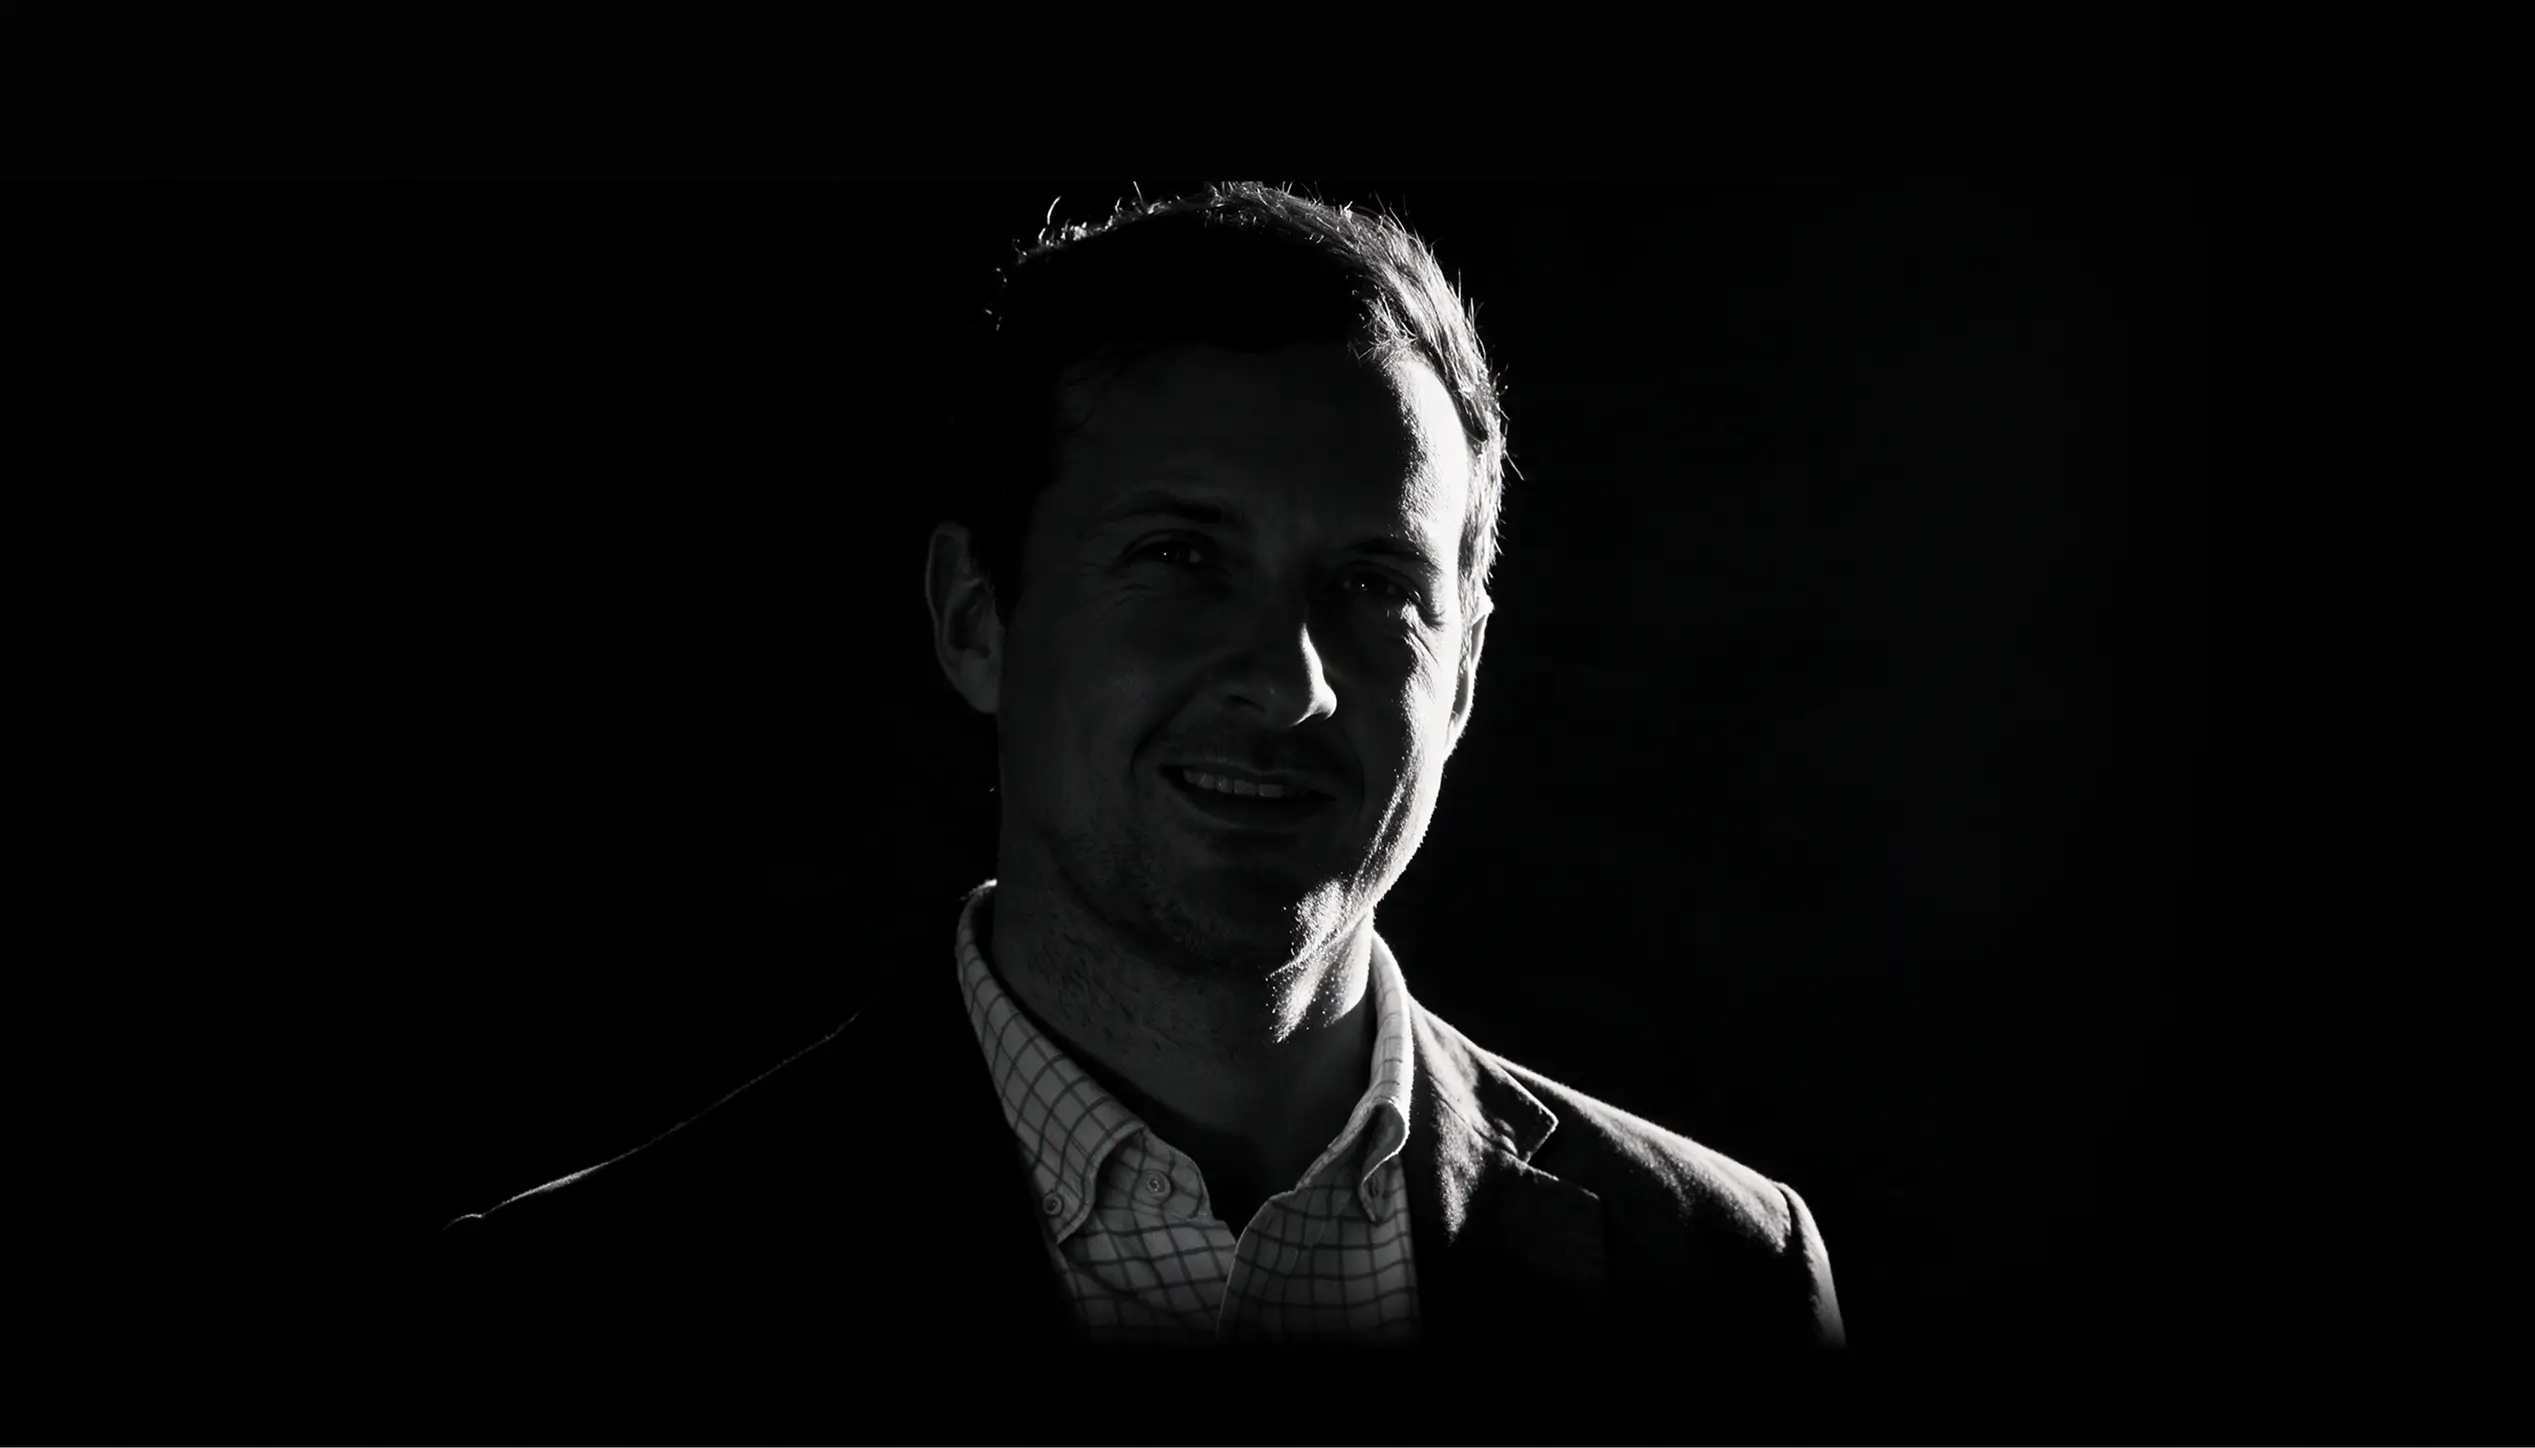
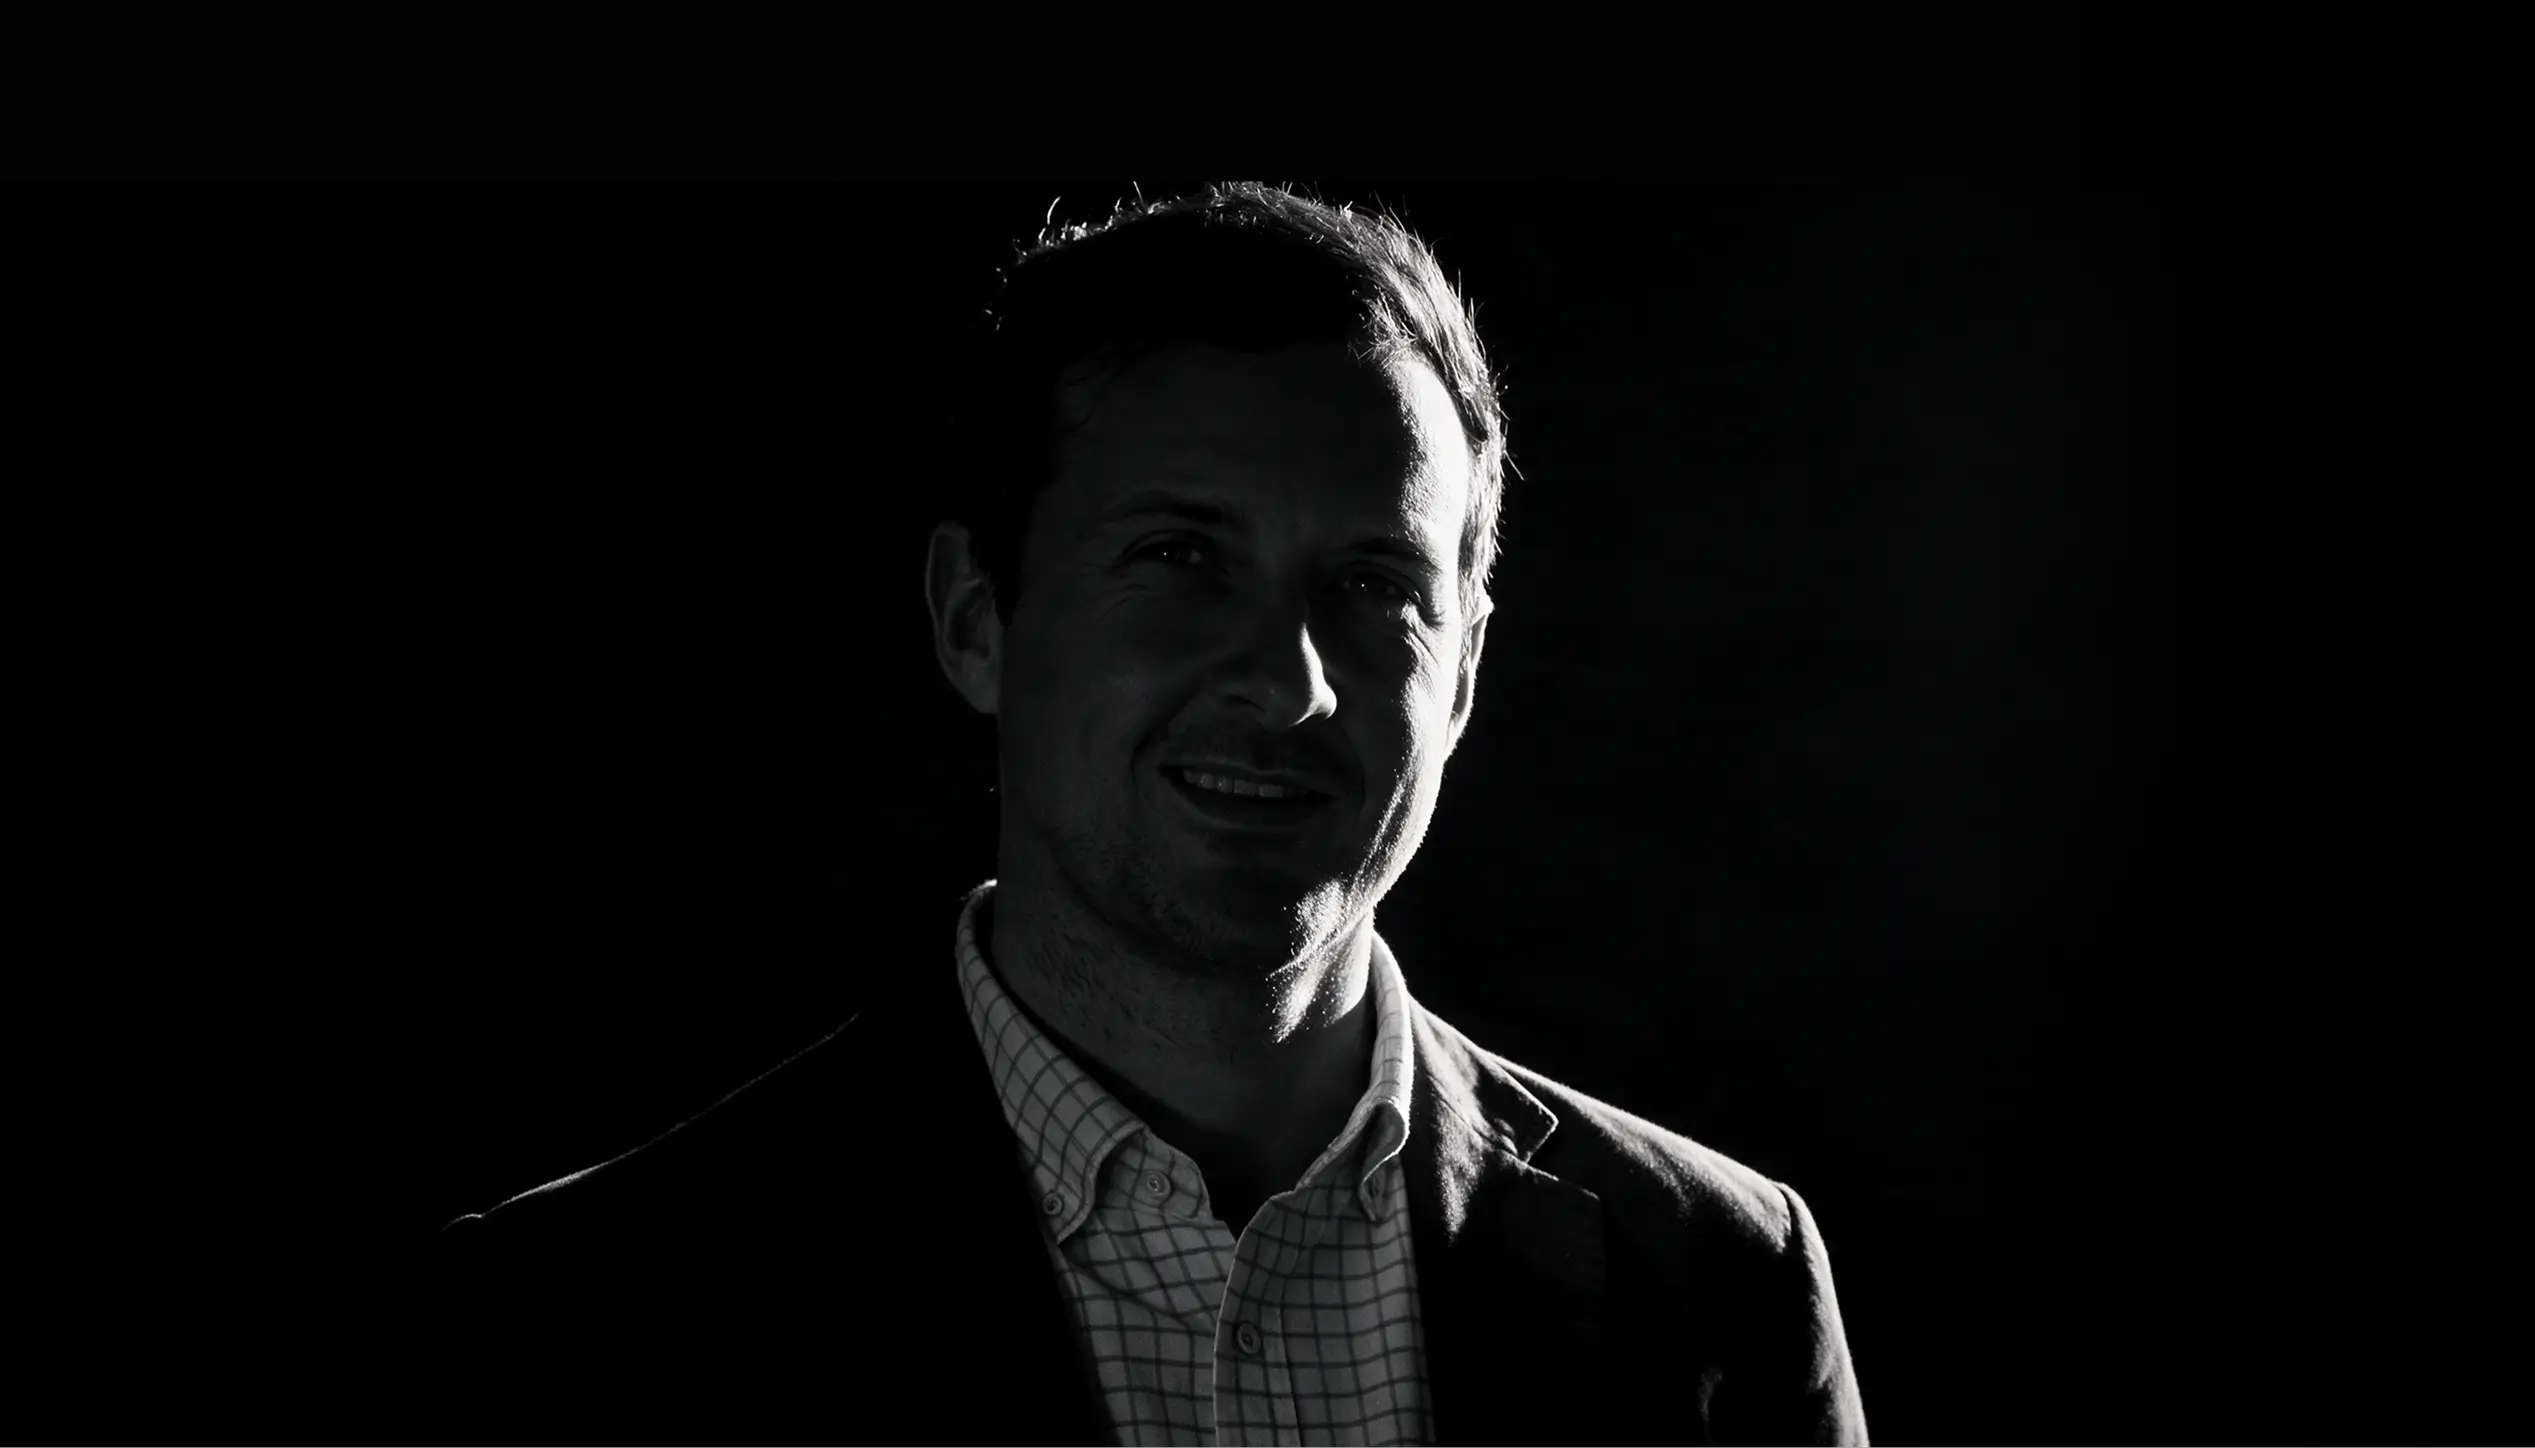
Update Declan's photo and add Dess (Production ally)

Changed region(s): [[0.4051, 0.8702, 0.5609, 1.0], [0.7168, 0.8702, 0.7479, 1.0]]

diff --git a/dijitally-services.html b/dijitally-services.html
@@ -179,7 +179,7 @@
   </style>
 </head>
 <body>
-<div style="position:fixed;bottom:12px;left:12px;z-index:9999;font-family:monospace;font-size:11px;color:red;pointer-events:none;">build 1be8ecc</div>
+<div style="position:fixed;bottom:12px;left:12px;z-index:9999;font-family:monospace;font-size:11px;color:red;pointer-events:none;">build 7c17226</div>
 <svg style="position:absolute;width:0;height:0;overflow:hidden" aria-hidden="true">
   <defs>
     <!--

diff --git a/site/components/heroSlides.config.ts b/site/components/heroSlides.config.ts
@@ -31,6 +31,7 @@ export const HERO_SLIDES: HeroSlide[] = [
   { src: "/hero/craig.webp", name: "Craig", role: "Talent ally" },
   { src: "/hero/carrie.webp", name: "Carrie", role: "Project ally" },
   { src: "/hero/declan.webp", name: "Declan", role: "Founding ally" },
+  { src: "/hero/dess.webp", name: "Dess", role: "Production ally" },
   { src: "/hero/matty.webp", name: "Matty", role: "Engineering ally" },
 ];
 
